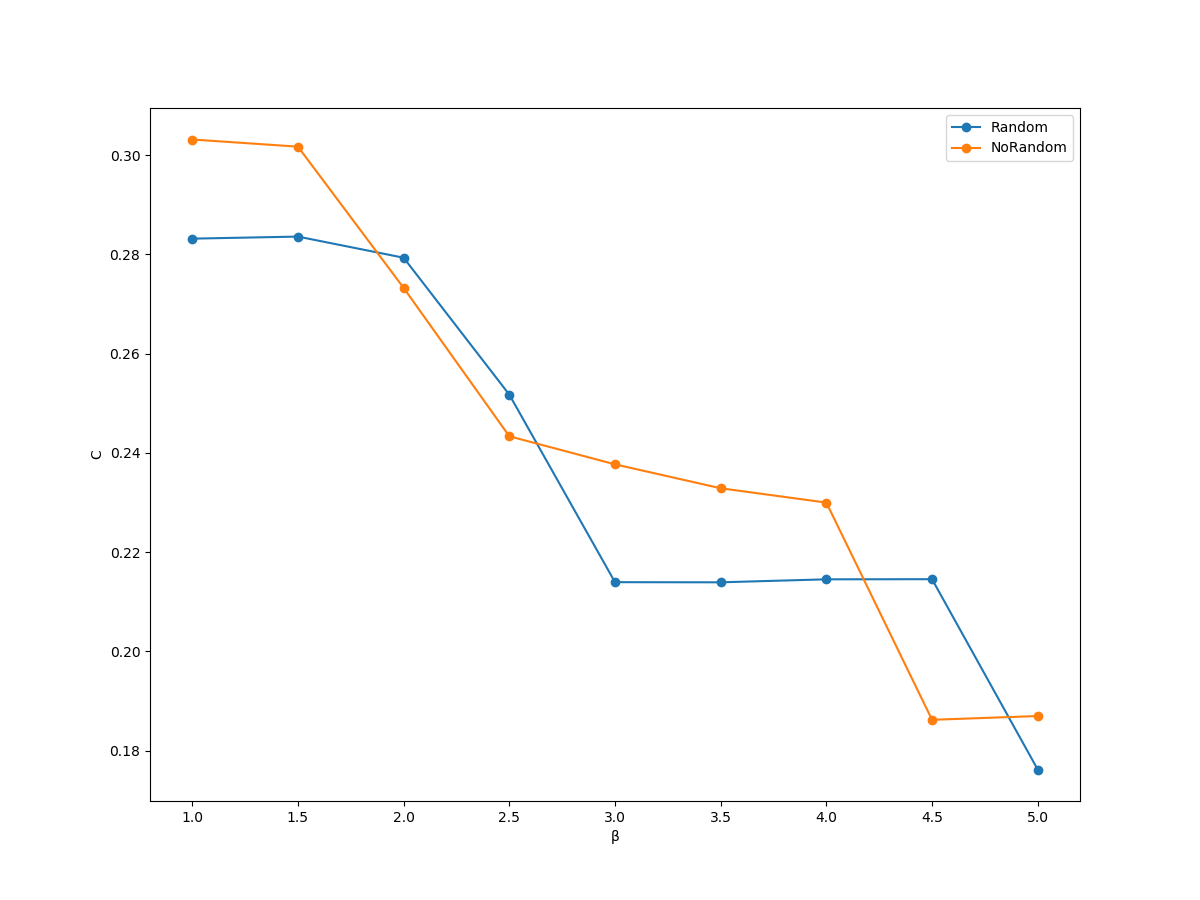
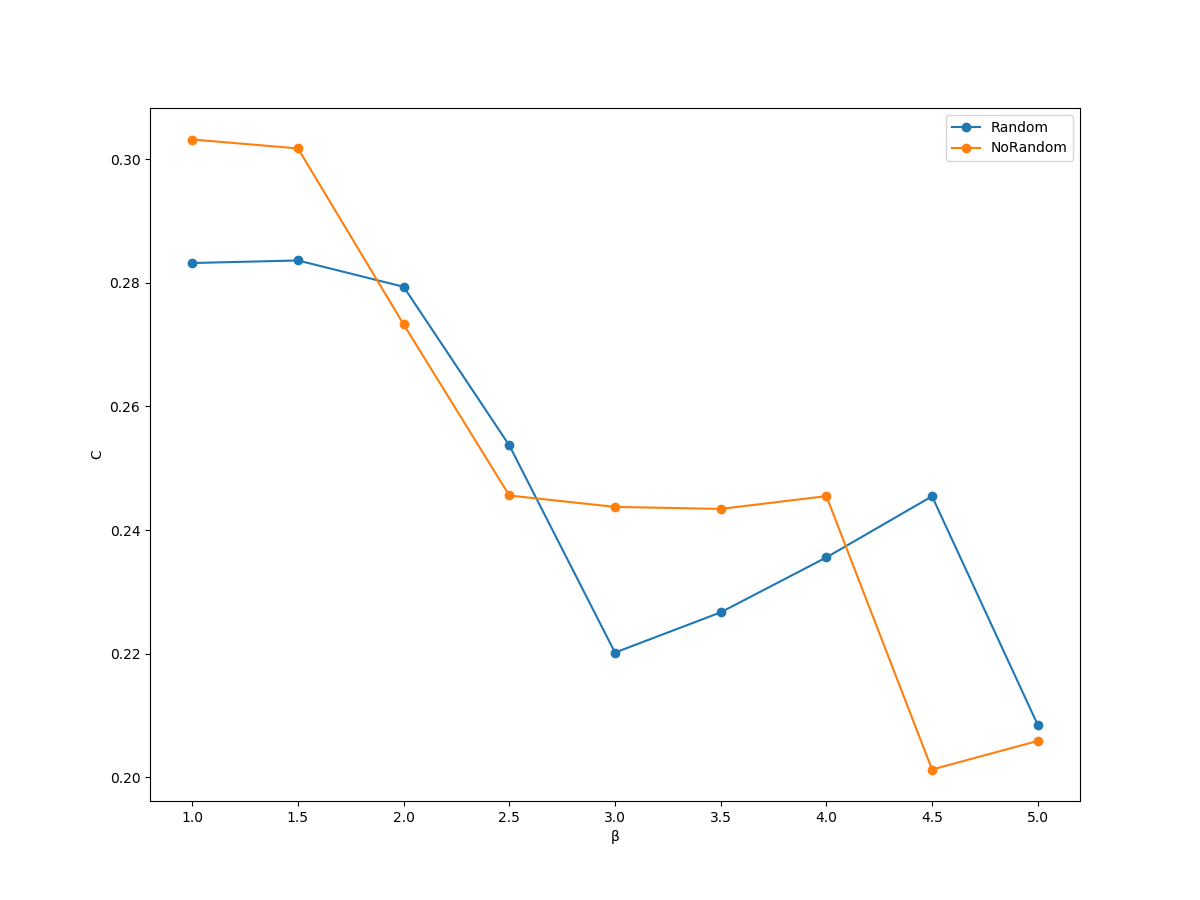
se corrige error

diff --git a/Datos/analisis_random_norandom.py b/Datos/analisis_random_norandom.py
@@ -36,22 +36,24 @@ for i in range(len(NOMBRES)):
     
     x,y=np.unique(apariciones, return_counts=True)
     
-    R=y/sum(y)
+    R=y
     
     if i <=8:
         puntos=np.loadtxt('random.dat',usecols=0)
         total=len(puntos)
         nonzero=len(nodos)
-        p0=np.array([(total-nonzero)/total])
+        p0=np.array([(total-nonzero)])
         P=np.concatenate((p0,R),axis=0)
+        P=P/total
         Srandom[i]=entropia(P)
         Crandom[i]=complejidad(P)
     else:
         puntos=np.loadtxt('norandom.dat',usecols=0)
         total=len(puntos)
         nonzero=len(nodos)
-        p0=np.array([(total-nonzero)/total])
+        p0=np.array([(total-nonzero)])
         P=np.concatenate((p0,R),axis=0)
+        P=P/total
         Snorandom[i-9]=entropia(P)
         Cnorandom[i-9]=complejidad(P)    
     
